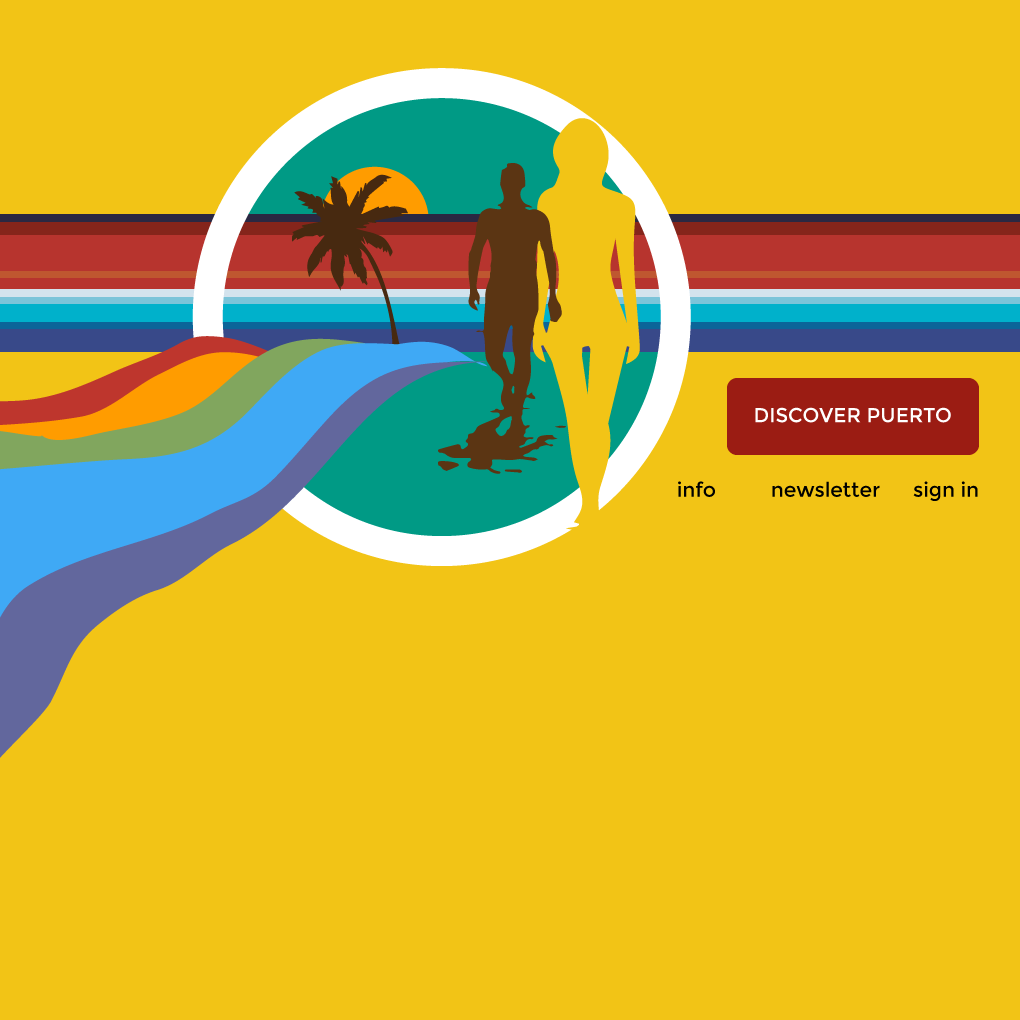
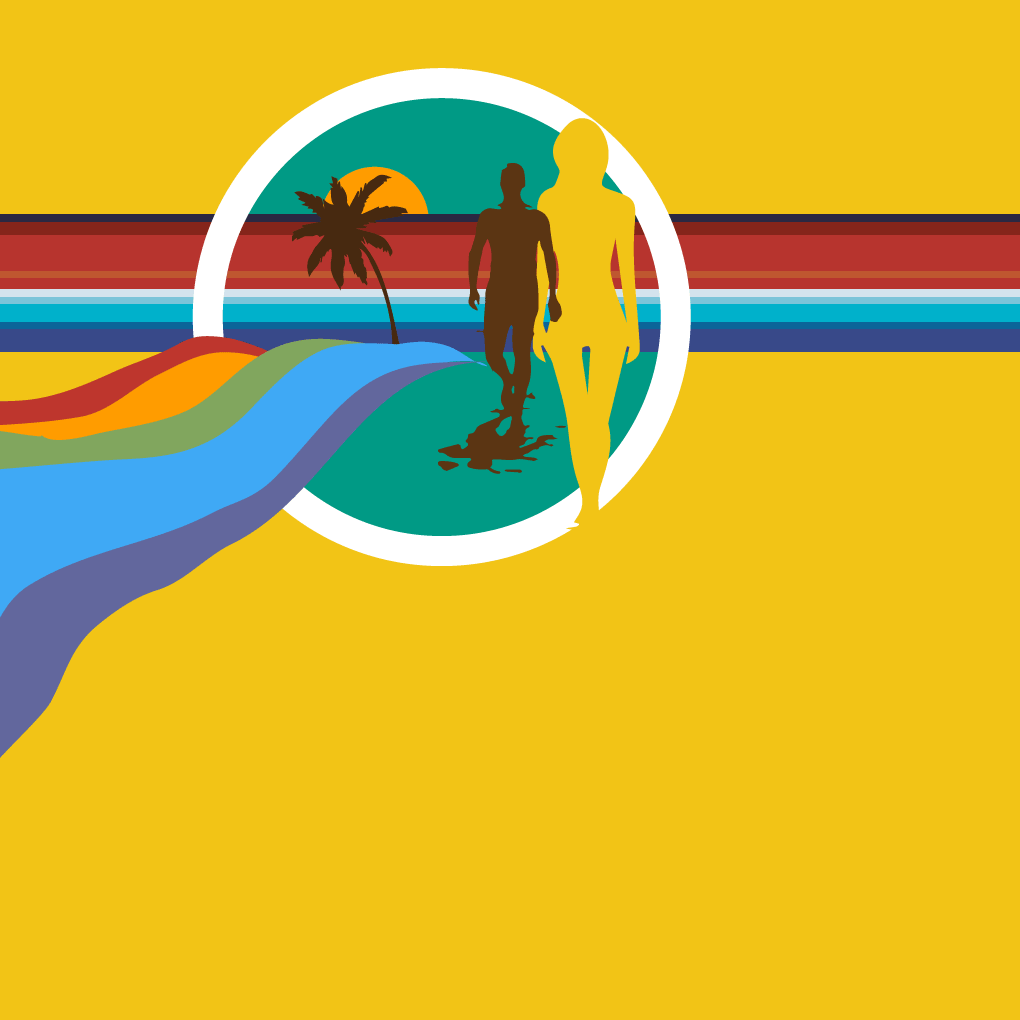
Page is basically laid-out.

Changed region(s): [[0.699, 0.3647, 0.9725, 0.4863], [0.6686, 0.4559, 0.699, 0.4863]]

diff --git a/css/styles.css b/css/styles.css
@@ -1,0 +1,126 @@
+* {
+  margin: 0;
+  padding: 0;
+}
+
+body {
+	background-color: #f2c416;
+	text-rendering: optimizelegibility;
+
+}
+
+h1 {
+	font-family: 'Oleo Script Swash Caps', cursive;
+	font-size: 6em;
+	color: #9b1c13;
+	line-height: 1.3em;
+}
+
+.header {
+	display: block;
+	width: 700px;
+	margin: -0.4em 0 0em 2.1em;
+	clear: both;
+		   z-index: 10;
+
+}
+
+
+.overlay {
+   opacity: .17;
+   filter: alpha(opacity=70);
+   position: absolute; top: 0; left: 0;
+   width: 100%; height: 100%;
+   z-index: -1;
+}
+
+.bg {
+   position: absolute; top: 0; left: 0;
+   width: 100%; height: 100%;
+   z-index: -10;
+
+}
+
+.sidebar {
+	width: 250px;
+	height: 310px;
+/*	background: #9b1c13;
+*/	border-radius: 10px;
+/*	float: right;
+*/	position: absolute;
+	left: 710px;
+/*	margin-right: 27px;
+*/	padding: 1.2em 1.2em 1.2em 1.2em;
+	z-index: 1;
+
+}
+
+.sidebar p {
+	color: white;	
+	font-family: 'Montserrat', sans-serif;
+	font-weight: 400;
+	font-size: 0.8em;
+}
+
+.blurb {
+	text-transform: uppercase;
+	width: 200px;
+	color: black;	
+	font-family: 'Montserrat', sans-serif;
+	font-weight: 700;
+	font-size: 1.2em;
+	margin: 0 0 0 2em;
+
+}
+
+.call-to-action {
+    background: none repeat scroll 0 0 #ff9c00;
+    border-radius: 5px 5px 5px 5px;
+    font-family: 'Montserrat',sans-serif;
+    font-size: 1.2em;
+    font-weight: 400;
+    height: 50px;
+    width: 100%;
+    line-height: 50px;
+    margin: 1em 0 0 0em;
+    text-align: center;
+    text-transform: uppercase;
+    box-shadow: 2px 2px 1px #5b3513;
+
+}
+
+.call-to-action a {
+/*	display: block;
+*/  text-decoration: none;
+    color: white;
+
+}
+.call-to-action:hover {
+/*	display: block;
+*/  text-decoration: none;
+    background-color: #f2c416;
+
+}
+.call-to-action a:hover {
+	display: block;
+	text-decoration: none;
+    color: #472910;
+
+}
+
+.sidebar2 {
+	width: 250px;
+	height: 1000px;
+	background: #9b1c13;
+	border-radius: 10px;
+	position: absolute;
+	left: 710px;
+	padding: 1.2em 1.2em 1.2em 1.2em;
+	z-index: -2;
+
+}
+
+
+
+
+

diff --git a/index.html b/index.html
@@ -2,15 +2,17 @@
 <html>
 <head>
 	<title></title>
-	<link rel="stylesheet" type="text/css" href="styles/styles.css">
+	<link rel="stylesheet" type="text/css" href="css/styles.css">
 	<link href='http://fonts.googleapis.com/css?family=Oleo+Script+Swash+Caps:700' rel='stylesheet' type='text/css'>
+<link href='http://fonts.googleapis.com/css?family=Montserrat:400,700' rel='stylesheet' type='text/css'>
+
 </head>
 <body>
 	<div class="container">
-		<header class="header">
+		<div class="header">
 			<h1>Puerto Vallarta</h1>
 			
-		</header>
+		</div>
 		
 	</div>
 	<div class="overlay">
@@ -19,15 +21,24 @@
 	</div>
 
 	<div class="bg">
-		<img src="images/jeremy-landingpage-v4.png" height="1020" width="1020" alt="sandstone">
+		<img src="images/jeremy-landingpage-v5b.png" height="1020" width="1020" alt="sandstone">
 		
 	</div>
-<!-- <div id="circle">
-    <div id="white_circle"></div>
-</div>
+ 	<div class="sidebar">
+		<p>Located on the Western Pacific coast of Mexico in the state of Jalisco, Puerto Vallarta's charm remains largely undiscovered. Along with its cobblestone streets, stunning beaches, plentiful marine life, lush Sierra Madre Mountains, exceptional restaurants, fine Gourmet Festival, new golf courses and vibrant culture, Puerto Vallarta is a vacationer's paradise that has maintained its unique Old Mexico charm despite the addition of these modern conveniences.
+		</p>
+		<div class="call-to-action"><a href="#">
+			discover Puerto</a>
+		</div>
+	</div>
+	<div class="sidebar2">
+		
+	</div>
 
- -->
+	<div class="blurb">
+		<p>Experience all the colors of Mexico</p>
+		
+	</div>
 
-
-</body>
+ </body>
 </html>
